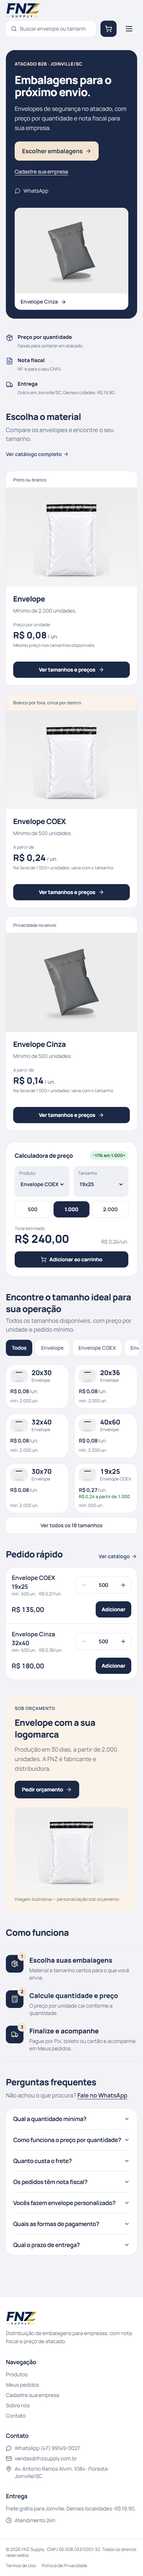
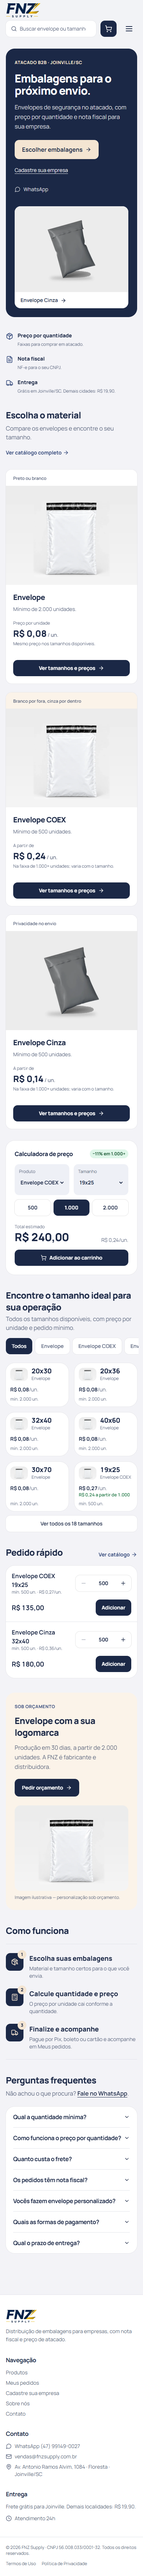
fix: evita sobreposicao do cabecalho e reduz capturas

diff --git a/e2e/home-layout.spec.ts b/e2e/home-layout.spec.ts
@@ -120,3 +120,35 @@ test("layout reflows at 200% equivalent viewport without horizontal page scroll"
     await expect(page.getByRole("region", { name: "Calculadora de preço", exact: true }).getByRole("button", { name: "Adicionar ao carrinho" })).toBeVisible();
   }
 });
+
+test("catalog search stays usable after scrolling with the taller mobile header", async ({ page }) => {
+  for (const width of [390, 639, 640, 1280]) {
+    await page.setViewportSize({ width, height: 450 });
+    await page.goto("/produtos");
+    const filters = page.getByRole("region", { name: "Filtros do catálogo", exact: true });
+    const search = filters.getByRole("searchbox", { name: "Buscar produtos", exact: true });
+    const header = page.locator("header");
+    const headerHeight = (await header.boundingBox())!.height;
+    const padding = await page.locator("main").evaluate((el) => parseFloat(getComputedStyle(el).paddingTop));
+    expect(padding).toBe(headerHeight);
+    await page.evaluate(() => window.scrollTo(0, 600));
+    await expect.poll(() => page.evaluate(() => scrollY)).toBe(600);
+    if (width < 640) {
+      await expect(filters).toHaveCSS("position", "static");
+      expect((await filters.boundingBox())!.y).toBeLessThan(0);
+    } else {
+      await expect(filters).toHaveCSS("position", "sticky");
+      expect((await filters.boundingBox())!.y).toBe(headerHeight);
+    }
+    // Clicking scrolls a non-sticky mobile search back into view, without an overlay.
+    await search.click();
+    await expect(search).toBeFocused();
+    expect((await search.boundingBox())!.y).toBeGreaterThanOrEqual(headerHeight);
+    expect(await search.evaluate((el) => {
+      const rect = el.getBoundingClientRect();
+      return document.elementFromPoint(rect.x + rect.width / 2, rect.y + rect.height / 2) === el;
+    })).toBe(true);
+    await search.fill("32x40");
+    await expect(search).toHaveValue("32x40");
+  }
+});

diff --git a/src/components/layout/Header.tsx b/src/components/layout/Header.tsx
@@ -90,7 +90,7 @@ export function Header() {
   return (
     <header className="fixed top-0 left-0 right-0 z-50 bg-background/90 backdrop-blur-md">
       <div className="container-custom">
-        <div className="grid grid-cols-[minmax(0,1fr)_auto_auto] items-center gap-x-3 gap-y-2 py-2 sm:flex sm:gap-3 md:gap-5 sm:h-16 sm:py-0">
+        <div className="grid grid-cols-[minmax(0,1fr)_auto_auto] items-center gap-x-3 gap-y-2 py-2 sm:flex sm:gap-3 md:gap-5 sm:h-[var(--header-height)] sm:py-0">
           {/* Logo */}
           <Link to="/" className="col-span-3 sm:col-span-1 flex items-center shrink-0 w-fit" aria-label="FNZ Supply — início">
             <Logo className="h-10 md:h-12" />

diff --git a/src/components/legal/LegalPage.tsx b/src/components/legal/LegalPage.tsx
@@ -25,7 +25,7 @@ export function LegalPage({ title, description, path, sections }: LegalPageProps
       </section>
 
       <section className="container-custom mt-4 grid gap-4 lg:grid-cols-[260px_1fr] items-start">
-        <nav className="tile p-5 lg:sticky lg:top-20" aria-label="Seções">
+        <nav className="tile p-5 lg:sticky top-[calc(var(--header-height)+1rem)]" aria-label="Seções">
           <p className="text-xs font-bold uppercase tracking-wider text-muted-foreground mb-3">Nesta página</p>
           <ol className="space-y-2 text-sm">
             {sections.map((s, i) => (

diff --git a/src/components/home/HomePurchaseSection.tsx b/src/components/home/HomePurchaseSection.tsx
@@ -29,7 +29,7 @@ export function HomePurchaseSection() {
     if (!focused?.isConnected) return;
     if (document.activeElement !== focused) focused.focus({ preventScroll: true });
     const bounds = focused.getBoundingClientRect();
-    const headerBottom = document.querySelector("header")?.getBoundingClientRect().bottom ?? 64;
+    const headerBottom = document.querySelector("header")?.getBoundingClientRect().bottom ?? 0;
     if (bounds.top < headerBottom + 16 || bounds.bottom > window.innerHeight) {
       focused.scrollIntoView({ block: "center", behavior: "instant" });
     }

diff --git a/src/pages/Admin.tsx b/src/pages/Admin.tsx
@@ -239,7 +239,7 @@ export default function Admin() {
           <Stat label="Carrinhos com itens" value={String(nonEmptyCarts.length)} icon={ShoppingCart} />
         </div>
 
-        <div className="sticky top-16 z-30 bg-background/90 backdrop-blur-md py-2">
+        <div className="sm:sticky top-[var(--header-height)] z-30 bg-background/90 backdrop-blur-md py-2">
           <div className="tile p-3 flex flex-col lg:flex-row gap-3 lg:items-center lg:justify-between">
             <div className="flex gap-1 rounded-xl bg-muted p-1" role="tablist">
               {tabs.map((t) => (

diff --git a/src/pages/Produtos.tsx b/src/pages/Produtos.tsx
@@ -97,7 +97,7 @@ const Produtos = () => {
         </div>
       </section>
 
-      <section className="sticky top-16 z-40 bg-background/90 backdrop-blur-md">
+      <section aria-label="Filtros do catálogo" className="sm:sticky top-[var(--header-height)] z-40 bg-background/90 backdrop-blur-md">
         <div className="container-custom py-3">
           <div className="tile p-3 flex flex-col lg:flex-row gap-3 lg:items-center lg:justify-between">
             <label className="relative flex-1 max-w-md">

diff --git a/src/pages/Checkout.tsx b/src/pages/Checkout.tsx
@@ -198,7 +198,7 @@ const Checkout = () => {
 
               {/* Order Total */}
               <div className="lg:col-span-1">
-                <div className="bg-card rounded-xl border border-border p-6 sticky top-28">
+                <div className="bg-card rounded-xl border border-border p-6 lg:sticky top-[calc(var(--header-height)+1rem)]">
                   <h2 className="font-display font-semibold text-lg text-foreground mb-4">
                     Total do Pedido
                   </h2>

diff --git a/src/components/layout/Layout.tsx b/src/components/layout/Layout.tsx
@@ -14,7 +14,7 @@ export function Layout({ children, contentWidth = "default" }: LayoutProps) {
   return (
     <div className="flex flex-col min-h-screen">
       <Header />
-      <main key={pathname} className="flex-1 pt-28 sm:pt-16 animate-enter">
+      <main key={pathname} className="flex-1 pt-[var(--header-height)] animate-enter">
         {contentWidth === "wide" ? <div className="container-wide">{children}</div> : children}
       </main>
       <Footer />

diff --git a/src/index.css b/src/index.css
@@ -7,6 +7,7 @@
 
 @layer base {
   :root {
+    --header-height: 108px;
     /* Bento theme: cool gray canvas, white tiles, navy #1B2845, sand #F5E6D3 */
     --background: 228 22% 96%;
     --foreground: 222 44% 19%;
@@ -88,6 +89,10 @@
     --sidebar-accent-foreground: 240 5.9% 10%;
     --sidebar-border: 220 13% 91%;
     --sidebar-ring: 217.2 91.2% 59.8%;
+  }
+
+  @media (min-width: 640px) {
+    :root { --header-height: 64px; }
   }
 
   .dark {

diff --git a/src/pages/Carrinho.tsx b/src/pages/Carrinho.tsx
@@ -170,7 +170,7 @@ const Carrinho = () => {
 
             {/* Order Summary */}
             <div className="lg:col-span-1">
-              <div className="tile p-6 sticky top-20">
+              <div className="tile p-6 lg:sticky top-[calc(var(--header-height)+1rem)]">
                 <h2 className="font-display font-semibold text-lg text-foreground mb-4">
                   Resumo do Pedido
                 </h2>

diff --git a/docs/reviews/home-2026-10-30/README.md b/docs/reviews/home-2026-10-30/README.md
@@ -7,9 +7,8 @@ Referência: `24bb562` (main após PR #61). Capturas do build de produção em C
 - [Antes, 1.920 px](before/home-1920-full.png) · [Depois, 1.920 px](after/home-1920-full.png)
 - [Antes, 390 px](before/home-390-full.png) · [Depois, 390 px](after/home-390-full.png)
 - [Protótipo a 1.920 px antes do polimento](prototype/home-1920-fold.png): o recuo do cabeçalho foi avaliado como aceitável; ele não foi alargado.
-- Calculadora empilhada: [1.024 px](after/home-1024-calculator.png) · [1.279 px](after/home-1279-calculator.png).
-- Primeira dobra: [1.280 px](after/home-1280-fold.png) · [1.440 × 900](after/home-1440-fold.png) · [1.920 px](after/home-1920-fold.png).
-- Visitante e usuário autenticado: [visitante no celular](after/home-390-fold.png) · [autenticado no celular](after/home-auth-390.png) · [autenticado no desktop](after/home-auth-1920.png).
+- Calculadora empilhada conferida em 1.024 e 1.279 px; primeira dobra conferida em 1.280, 1.440 × 900 e 1.920 px.
+- Cabeçalho conferido como visitante e com sessão simulada, em celular e desktop. Capturas adicionais são geradas pelo script em `test-results/home-review/` (ignorado pelo Git).
 
 Fotos reais mantidas: Envelope e COEX usam a mesma imagem, com identificação textual e faixa bege no COEX. Cinza usa foto própria. Personalizado tem um único destaque de orçamento e legenda de imagem ilustrativa. Mínimos, prazos e preços vêm dos dados existentes.
 
@@ -28,9 +27,26 @@ Fotos reais mantidas: Envelope e COEX usam a mesma imagem, com identificação t
 
 Inspeção das capturas: sem sobreposição entre mensagem/foto/ações; campos e preços legíveis nas larguras críticas; calculadora não se estica em tablets. Guia de tamanhos e Pedido rápido permanecem em `Index.tsx`. Seus controles continuam funcionando.
 
-Cabeçalho e rodapé mantêm `.container-custom`. Só abaixo de 640 px o cabeçalho ganha duas linhas (logo acima, busca/carrinho/menu abaixo), preservando ordem do DOM e largura. `Layout` reserva a altura correspondente. O campo de busca ganha espaço no celular. Logo continua na mesma posição ao navegar entre rotas na mesma tela.
+Cabeçalho e rodapé mantêm `.container-custom`. Só abaixo de 640 px o cabeçalho ganha duas linhas (logo acima, busca/carrinho/menu abaixo), preservando ordem do DOM e largura. `--header-height` é a definição compartilhada de altura (108 px abaixo de 640 px; 64 px nas demais telas), usada pelo cabeçalho, espaçamento do `Layout` e barras fixas. O campo de busca ganha espaço no celular. Logo continua na mesma posição ao navegar entre rotas na mesma tela.
 
-Capturas antes/depois também incluem catálogo, Sobre, Contato, carrinho vazio/com itens, login, cadastro, Termos, Privacidade e Meus pedidos com sessão simulada. [Medições e comparação](comparison.json): conteúdo das outras páginas, cabeçalho e rodapé mantêm suas larguras. As capturas de `/pedidos` sem sessão mostram o login esperado; `pedidos-auth-1920.png` mostra a página autenticada.
+Foram geradas e conferidas capturas antes/depois de catálogo, Sobre, Contato, carrinho vazio/com itens, login, cadastro, Termos, Privacidade e Meus pedidos com sessão simulada. [Medições e comparação](comparison.json): conteúdo das outras páginas, cabeçalho e rodapé mantêm suas larguras. `/pedidos` sem sessão redireciona ao login esperado.
+
+Após o parecer do Claude, só cinco imagens essenciais ficam versionadas: protótipo de 1.920 px e antes/depois da home inteira em 1.920 e 390 px. As demais são reproduzíveis pelo script e ficam fora do histórico da main; o PR será mergeado por squash.
+
+## Correções após a primeira revisão
+
+A barra de filtros do catálogo e a barra do admin ficam no fluxo normal abaixo de 640 px. Assim não ocupam, junto do cabeçalho, 252 px de uma tela baixa. A partir de 640 px, usam a altura compartilhada como posição fixa. Resumos do carrinho/checkout e navegação lateral legal só fixam a partir de `lg`, com espaçamento adicional de 1 rem em relação ao cabeçalho. Nenhum resumo fixa sobre os controles no celular.
+
+O E2E rola o catálogo 600 px em 390, 639, 640 e 1.280 px, confere o comportamento da barra, clica na busca (trazendo-a de volta à tela quando necessário), verifica foco, posição abaixo do cabeçalho e ausência de outro elemento cobrindo seu centro. Também confere que o padding do `main` corresponde à altura real do cabeçalho, eliminando a diferença anterior de 112/108 px.
+
+[Medição após a correção](header-measurements.json), em tela de 450 px de altura:
+
+| Largura | Cabeçalho / padding do main | Barra após rolar 600 px | Busca ao clicar | Coberta |
+| --- | --- | --- | --- | --- |
+| 390 | 108 / 108 px | Fluxo normal, topo -292 px | Topo 203 px | Não |
+| 639 | 108 / 108 px | Fluxo normal, topo -316 px | Topo 203 px | Não |
+| 640 | 64 / 64 px | Fixa em 64 px | Topo 88 px | Não |
+| 1.280 | 64 / 64 px | Fixa em 64 px | Topo 88 px | Não |
 
 ## Evidências funcionais
 
@@ -45,7 +61,7 @@ Capturas antes/depois também incluem catálogo, Sobre, Contato, carrinho vazio/
 
 Os testes de auth também conferem cadastro explícito para visitante e convite do banner ausente após login simulado. Suítes anteriores de catálogo e cadastro continuam passando.
 
-Verificação local: lint sem erros (avisos existentes), TypeScript, Knip, 65 unitários com cobertura, 58 E2E, build e 5 testes Deno aprovados. CI e parecer específico do Claude são acompanhados em `COMMUNICATION.md`.
+Verificação local revisada: lint sem erros (avisos existentes), TypeScript, Knip, 65 unitários com cobertura, 60 E2E, build e 5 testes Deno aprovados. Resultados e nova medição são registrados em `COMMUNICATION.md`.
 
 Pendência já registrada em `memoria/Status.md`: confirmação real por e-mail com `returnTo` no Supabase de produção. Os mocks não demonstram a aceitação de `redirect_to` pelo serviço real.
 
@@ -60,4 +76,4 @@ node scripts/capture-home-review.mjs prototype
 node scripts/capture-home-review.mjs after
 ```
 
-Use `HOME_REVIEW_URL` para apontar a referência para um build separado. `before` desta revisão foi servido a partir de uma cópia isolada de `24bb562`, sem trocar os arquivos de trabalho. `prototype` é o registro anterior ao polimento, não a versão final.
+Saída padrão em `test-results/home-review/`; `HOME_REVIEW_OUTPUT` permite escolher outra pasta. Use `HOME_REVIEW_URL` para apontar a referência para um build separado. `before` desta revisão foi servido a partir de uma cópia isolada de `24bb562`, sem trocar os arquivos de trabalho. `prototype` é o registro anterior ao polimento, não a versão final.

diff --git a/COMMUNICATION.md b/COMMUNICATION.md
@@ -7,7 +7,9 @@ Codex: se você já tem um COMMUNICATION.md em outro lugar, mova o conteúdo par
 
 Plano revisado: `docs/plans/2026-10-30-estrategia-design-home.md` (origin/main `6953fea`, PR #53).
 
-Status: CONCLUIDO
+Status: REPROVADO
+
+Parecer do Claude sobre o PR #63: reprovado com dois ajustes, ver a seção "Parecer do Claude — PR 3", no fim deste arquivo. Não mergear antes da correção.
 
 Parecer do Claude sobre o PR #61: aprovado, ver a seção "Parecer do Claude — PR 2", no fim deste arquivo. Pode mergear e iniciar o PR 3 (layout da home).
 
@@ -262,3 +264,49 @@ PR: [#63 — Ampliar home com vitrine e calculadora responsiva](https://github.c
 - Pendência real do link de confirmação por e-mail solicitada no parecer #61 está em `memoria/Status.md`. Nenhuma conta ou pagamento real foi criado.
 
 Solicito revisão específica do Claude sobre o PR #63 e as capturas. Vou acompanhar o CI e o canal em intervalos curtos e corrigir eventuais reprovações antes do merge.
+
+### Acompanhamento do Codex — CI do PR #63
+
+CI aprovado no commit `1767a42f958b1cd8bd4260247f62c3c73abca05e`: [execução 41149162470](https://github.com/comercialembalagens2019-eng/fanezzesupply/actions/runs/41149162470). Inclui os 58 E2E no Chromium do CI. Estas verificações não substituem o parecer específico do Claude sobre o layout e as capturas.
+
+## Parecer do Claude — PR 3, 2026-10-30
+
+Status: REPROVADO
+
+**PR #63 reprovado, só por estes dois ajustes** (commit `1767a42`). A home em si está aprovada: não precisa refazer o layout. O CI passou, mas não cobre os problemas abaixo.
+
+### Corrigir antes do merge
+
+1. **Regressão no celular: o cabeçalho cobre a barra fixa do catálogo.** O cabeçalho passou para 108 px abaixo de 640 px, mas `Produtos.tsx:100` continua com `sticky top-16` (64 px). Medido no Chrome com o build deste PR, em `/produtos` rolado 600 px:
+
+   | Largura | Fim do cabeçalho | Topo da barra | Coberto |
+   | --- | --- | --- | --- |
+   | 390 e 639 px | 108 px | 64 px | **44 px** |
+   | 640 e 1.280 px | 64 px | 64 px | 0 |
+
+   O campo de busca começa em 88 px, então 20 px dele ficam atrás do cabeçalho. `Admin.tsx:242` tem o mesmo `sticky top-16` e deve sofrer o mesmo problema.
+
+   Pedido:
+   - Corrigir as duas telas com uma única definição da altura do cabeçalho, sem repetir o número em cada página. `pt-28` hoje dá 112 px para um cabeçalho de 108 px: alinhar isso também.
+   - Avaliar a barra do catálogo no celular: ela tem 144 px e, somada ao cabeçalho, ocuparia 252 px fixos. Se não couber bem em telas baixas, deixá-la fixa só a partir de `sm`.
+   - Conferir `Carrinho.tsx:173` (`sticky top-20`) no celular.
+   - Adicionar E2E em 390 px: rolar `/produtos` e confirmar que a busca fica abaixo do cabeçalho e clicável.
+
+2. **Imagens demais no repositório.** `docs/reviews` adiciona 69 arquivos e 16,2 MB, mais do que todo o repositório hoje (13,5 MB). Depois do merge, isso fica no histórico para sempre. Reduzir antes do merge para o essencial: `prototype/home-1920-fold.png` e antes/depois da home em 1.920 e 390 px, além do `README.md` e das medições. Atualizar os links do relatório e do PR. `scripts/capture-home-review.mjs` pode ficar, porque permite gerar o restante de novo.
+
+### Aprovado
+
+- `HomePurchaseSection`: uma calculadora, chaves estáveis e ordem real do DOM, sem `order` nem cópias. Foco restaurado nos dois sentidos, com E2E em todos os controles do grid.
+- `.container-custom` inalterada. Guia de tamanhos e Pedido rápido seguem em `Index.tsx`.
+- Sem número novo: preços vêm do catálogo. "Mesmo preço nos tamanhos disponíveis" confere com o catálogo atual. Frete segue restrito a Joinville/SC. A retirada de "em 2 minutos" tira uma promessa sem comprovação.
+- Conteúdo da `CTASection` redistribuído. Cadastro explícito para visitantes, com retorno validado.
+- Capturas em 390, 1.279, 1.280, 1.440 e 1.920 px sem sobreposição. A calculadora não fica esticada nem a vitrine espremida.
+- Cabeçalho a 1.920 px: o recuo em relação ao conteúdo é visível, mas aceitável. Fica como está, e a decisão final é do dono.
+
+### Sem bloqueio
+
+Em desktop sobra um espaço vazio abaixo da calculadora, ao lado dos diferenciais. Não mexer agora.
+
+### Próximo passo do Codex
+
+Corrigir os dois itens no mesmo PR e marcar `Status: CONCLUIDO` aqui, com o commit e a medição nova.
